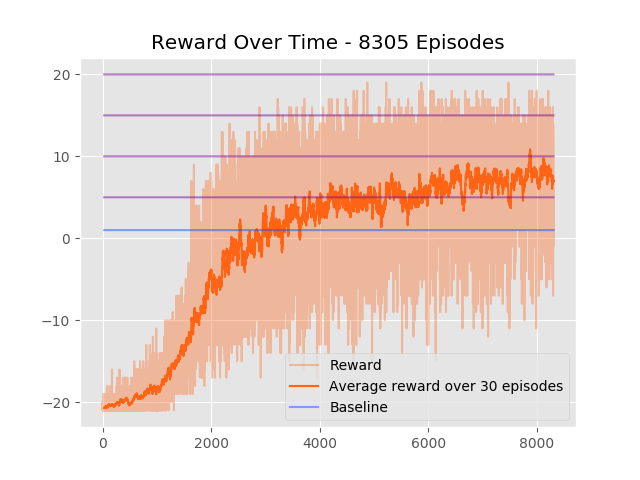
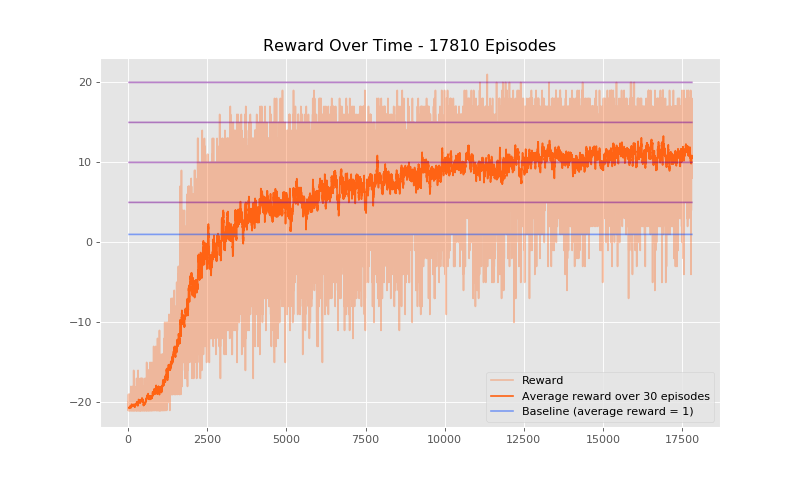
Add src, change plot

diff --git a/src/train.py b/src/train.py
@@ -1,0 +1,134 @@
+import gym
+import torch
+import torch.nn as nn
+import torch.optim as optim
+import numpy as np
+from scipy.misc import imsave, imresize
+from model import Actor
+'''
+    Minimal implementation of Pong Policy Gradient.
+'''
+device = 'cuda' if torch.cuda.is_available() else 'cpu'
+
+def init_weights(m):
+    ''' Define own weight initialization.
+    '''
+    pass
+
+def get_prepro_state(s):
+    '''
+    Args:
+        s: state of current environment. In Pong, it is an 160 * 210 * 3 RGB frame.
+    Returns:
+        A flattened tensor of length 6400.
+    '''
+    s = 0.2126 * s[:, :, 0] + 0.7152 * s[:, :, 1] + 0.0722 * s[:, :, 2]
+    s = s.astype(np.uint8)
+    s = imresize(s, (80, 80)).ravel()
+    return torch.tensor(s, dtype = torch.float).unsqueeze(0).to(device) # Return a tensor
+
+def get_po_loss(p, l, r):
+    '''
+    Args:
+        p: list of probabilities of moving up in an episode.
+        l: list of  hot labels indicating the action (up or down) in an epsiode (1 = up, 0 = down).
+        r: list of rewards in an episode.
+    Returns:
+        The policy gradient loss.
+    '''
+    
+    p = torch.cat(p, 0)
+    l = torch.cat(l, 0)
+    r = get_discounted_reward(np.array(r), gamma)
+    
+    eps = 1e-8
+    return -torch.sum((l * torch.log(p + eps) + (1 - l) * torch.log(1 - p + eps)) * r)
+
+def get_discounted_reward(r, gamma):
+    '''
+    Args:
+        r: a list of rewards in an episode.
+        gamma: discount factor.
+    Returns:
+        A dicounted and normalized reward list (tensor).
+    '''
+    dsct_r = np.zeros_like(r)
+    run_r = 0
+    for t in reversed(range(0, r.size)):
+        if r[t] != 0: running_add = 0 
+        run_r = run_r * gamma + r[t]
+        dsct_r[t] = run_r
+    dsct_r = (dsct_r - np.mean(dsct_r)) / np.std(dsct_r)
+    return torch.tensor(dsct_r, dtype = torch.float).to(device)
+
+def get_action_label(p):
+    ''' Get action based on predicted probability
+    Args:
+        p: The probability to move up.
+    Returns:
+        action: 2 = up / 3 = down.
+        label: 1 = up / 0 = down.
+    '''
+    p = p.detach().cpu().numpy()
+    action = 2 if p[0] > np.random.uniform() else 3 # 2 is up / 3 is down
+    label =  torch.ones(1) if action == 2 else torch.zeros(1) # Label is 1 if moving up
+    return action, label.to(device)
+
+def get
+resume = False
+
+# NN config
+actor = Actor.to(device)
+if resume:
+    actor.load_state_dict(torch.load('actor.ckpt'))
+
+optimizer = optim.Adam(actor.parameters(), lr = 0.0001)
+optimizer.zero_grad()
+
+# Environment config
+env = gym.make("Pong-v0")
+prev_state, curr_state = env.reset(), None
+
+# Some tracking variables
+reward_sum = 0
+episode_number = 0
+batch_size = 10
+gamma = 0.99
+reward_history, reward_list, prob_list, label_list = [], [], [], []
+
+while True:
+    curr_state = get_prepro_state(curr_state).to(device)
+    diff_state = curr_state - (prev_state if prev_state is not None else 0)
+    prev_state = curr_state
+
+    prob = actor(diff_state).view(-1) # 1D probability: moving up
+    action, label = get_action_label(prob) # Supervised hard label
+    label_list.append(label)
+    prob_list.append(prob)
+    
+    curr_state, reward, done, info = env.step(action) #Make a move according to the action
+    
+    reward_sum += reward #Accumulate reward of one episode
+    reward_list.append(reward) #A previous list of rewards
+    
+    if done:
+        episode_number += 1
+        reward_history.append(reward_sum)
+        np.save('reward.npy', np.array(reward_history))
+        
+        loss = get_po_loss(prob_list, label_list, reward_list)
+        loss.backward() # Accumulate gradients
+            
+        print("Episode: {}, Reward: {}, Loss: {}".format(episode_number, reward_sum, loss.item()))
+        
+        if episode_number % batch_size == 0:
+            optimizer.step() # Make nn update
+            optimizer.zero_grad() # Clear gradients
+            
+        if episode_number % 100 == 0:
+            torch.save(actor.state_dict(), 'actor.ckpt')
+        
+        # Resetting stuff
+        reward_sum = 0
+        prob_list, label_list, reward_list = [], [], []
+        curr_state, prev_state = env.reset(), None

diff --git a/src/play.py b/src/play.py
@@ -1,11 +1,17 @@
 import torch
-import torch.nn as nn
-import torch.optim as optim
 import gym
 import numpy as np
 from scipy.misc import imsave, imresize
 from model import Actor
+import subprocess
 
+device = 'cuda' if torch.cuda.is_available() else 'cpu'
+
+def reset():
+    subprocess.call("rm play.mp4".split(' '))
+    subprocess.call("rm -rf frames".split(' '))
+    subprocess.call("mkdir frames".split(' '))
+    return 0, 0, 0, 1, False
 
 def preprocess_frame(frame):
     frame = 0.2126 * frame[:,:,0] + 0.7152 * frame[:,:,1] + 0.0722 * frame[:,:,2]
@@ -19,35 +25,35 @@ def get_action_label(prob):
     action = 2 if prob[0] > np.random.uniform() else 3 # 2 is up / 3 is down
     return action
 
-# NN actor config
-actor = Actor
-actor.load_state_dict(torch.load('actor.ckpt', map_location = 'cpu'))
 
-# Environment config
+actor = Actor.to(device)
+actor.load_state_dict(torch.load('actor.ckpt'))
+
 env = gym.make("Pong-v0")
-input_frame = env.reset()
-prev_frame = None
-reward_sum = 0
-episode_number = 1
+prev_frame, curr_frame = None, env.reset()
+opponent_score, your_score, total_reward, frame_no, done = reset()
 
-while True:
-    env.render()
-    curr_frame = preprocess_frame(input_frame)
+print("   << Playing Pong >>   ")
+print("=" * 24)
+while not done:
+    curr_frame = preprocess_frame(curr_frame)
     frame_diff = curr_frame - (prev_frame if prev_frame is not None else 0)
     prev_frame = curr_frame
     
-    frame_diff = frame_diff
-    prob = actor(frame_diff).view(-1) #1D probability: moving up
-    action,= get_action_label(prob) #Supervised hard label
+    frame_diff = frame_diff.to(device)
+    prob = actor(frame_diff).view(-1) 
+    action = get_action_label(prob) 
     
-    input_frame, reward, done, info = env.step(action) #Make a move according to the action
+    curr_frame, reward, done, info = env.step(action) 
     
-    reward_sum += reward #Accumulate reward of one episode
-    if done:
-        episode_number += 1
-        print("Episode: {}, Reward: {}".format(episode_number, reward_sum))
+    if reward == 1: your_score += 1
+    elif reward == -1: opponent_score += 1
+    if reward != 0:
+        print("Opponent [{}] | You [{}]".format(str(opponent_score).rjust(2), str(your_score).rjust(2)), end = "\r")
         
-        # Resetting stuff
-        reward_sum = 0 #Reset episode reward sum
-        input_frame = env.reset() #Reset environment
-        prev_frame = None
+    imsave('./frames/{}.png'.format(str(frame_no).zfill(10)), curr_frame)
+    frame_no += 1
+    total_reward += reward 
+
+print("\nReward: {}".format(total_reward))
+subprocess.call("ffmpeg -framerate 128 -i ./frames/%010d.png -crf 0 play.mp4".split(" "))

diff --git a/src/plot.py b/src/plot.py
@@ -1,0 +1,25 @@
+import numpy as np
+import matplotlib.pyplot as plt
+plt.switch_backend('agg')
+plt.style.use('ggplot')
+
+def avg(r):
+    return [np.mean(r[i-30:i]) for i in range(30, len(r))]
+
+
+r = np.load('reward.npy')
+idx = list(range(30, len(r)))
+
+baseline_color = (120 / 255, 10 /255, 153 / 255, 0.5)
+
+plt.figure(num = None, figsize = (10, 6), dpi =80)
+plt.title('Reward Over Time - {} Episodes'.format(len(r)))
+
+plt.plot(r, color = (255 / 255, 99 / 255, 20 / 255, 0.35), label = 'Reward')
+plt.plot(idx, avg(r), color = (255 / 255, 99 / 255, 20 / 255, 1), label = 'Average reward over 30 episodes')
+plt.plot(idx, [1 for _ in idx], color = (20 / 255, 83 / 255, 255 / 255, 0.5), label = 'Baseline (average reward = 1)')
+for i in range(1, 5):
+    plt.plot(idx, [5 * i for _ in idx], color = baseline_color)
+plt.legend()
+plt.savefig('reward.png')
+print(avg(r))

diff --git a/README.md b/README.md
@@ -22,6 +22,8 @@ The dimension of the action space of the gym-Pong environment is 3 (up, down, do
 - Rewards are discounted with factor 0.99, and then normalized (substracted by their mean and then divided by their standard deviation).
 ### Results
 
+The model is trained for 46 hours, achieving an average reward over 30 episodes of 12.1
+
 ![Rewards](./results/reward.png)
 
 
